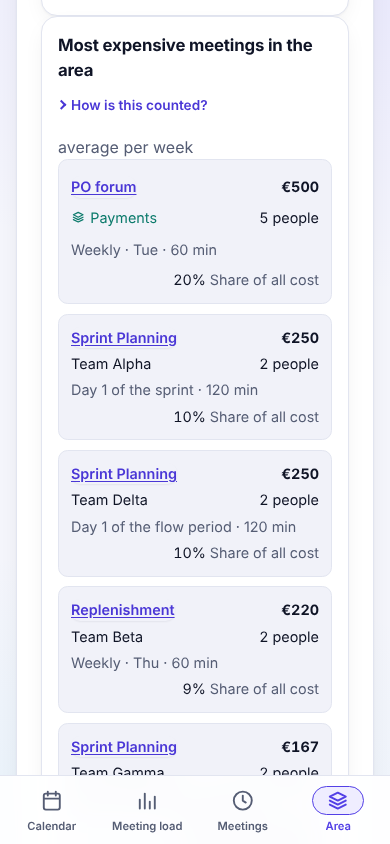
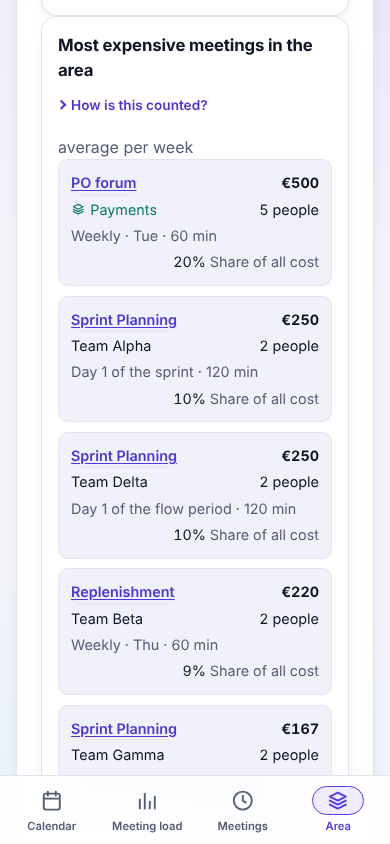
Share the phone card rules with the cost cards, keep the area card as tall as the others (#283)

diff --git a/src/ui/views/AreaOverview.svelte b/src/ui/views/AreaOverview.svelte
@@ -987,49 +987,6 @@
   .share-all .cap {
     display: none;
   }
-  /* Phones: the most expensive meetings become cards like the cost per team (#283):
-     meeting and cost on top, then where and invited, when, and the share on the right. */
-  @media (max-width: 640px) {
-    :global(#app) [data-costly] table.costs {
-      min-width: 0;
-    }
-    :global(#app) [data-costly] thead {
-      position: absolute;
-      width: 1px;
-      height: 1px;
-      overflow: hidden;
-      clip-path: inset(50%);
-    }
-    :global(#app) [data-costly] tbody tr {
-      display: grid;
-      grid-template-columns: minmax(0, 1fr) fit-content(50%);
-      column-gap: 0.75rem;
-      margin-bottom: 0.6rem;
-      padding: 0.6rem 0.75rem;
-      border: 1px solid var(--border);
-      border-radius: var(--radius);
-      background: var(--surface-2);
-    }
-    :global(#app) [data-costly] tbody :is(th, td) {
-      padding: 0.15rem 0;
-      border: 0;
-      white-space: normal;
-    }
-    :global(#app) [data-costly] tbody :is(.when, .share-all) {
-      grid-column: 1 / -1;
-    }
-    :global(#app) [data-costly] tbody .cost {
-      grid-row: 1;
-      grid-column: 2;
-    }
-    :global(#app) [data-costly] tbody .invited {
-      grid-row: 2;
-      grid-column: 2;
-    }
-    .share-all .cap {
-      display: inline;
-    }
-  }
   .muted {
     color: var(--text-muted);
     font-weight: 400;
@@ -1479,10 +1436,12 @@
       padding: 1rem;
     }
     /* The cost table becomes cards: team and cost on top, hours and share below (#281). */
-    :global(#app) [data-area-costs] table.costs {
+    :global(#app) [data-area-costs] table.costs,
+    :global(#app) [data-costly] table.costs {
       min-width: 0;
     }
     :global(#app) [data-area-costs] thead,
+    :global(#app) [data-costly] thead,
     :global(#app) .meetings thead {
       position: absolute;
       width: 1px;
@@ -1491,6 +1450,7 @@
       clip-path: inset(50%);
     }
     :global(#app) [data-area-costs] tr,
+    :global(#app) [data-costly] tbody tr,
     :global(#app) .meetings tr {
       display: grid;
       grid-template-columns: 1fr auto;
@@ -1501,6 +1461,7 @@
       background: var(--surface-2);
     }
     :global(#app) [data-area-costs] table.costs :is(th, td),
+    :global(#app) [data-costly] table.costs :is(th, td),
     :global(#app) .meetings td {
       padding: 0.15rem 0;
       border: 0;
@@ -1531,6 +1492,33 @@
     :global(#app) .meetings td.who {
       grid-column: 1 / -1;
       grid-row: 2;
+    }
+    /* The most expensive meetings: meeting and cost on top, then where and invited,
+       when, and the share (#283). */
+    :global(#app) [data-costly] tbody tr {
+      grid-template-columns: minmax(0, 1fr) fit-content(50%);
+      column-gap: 0.75rem;
+    }
+    :global(#app) [data-costly] table.costs td {
+      white-space: normal;
+    }
+    :global(#app) [data-costly] :is(.when, .share-all) {
+      grid-column: 1 / -1;
+    }
+    :global(#app) [data-costly] .cost {
+      grid-row: 1;
+      grid-column: 2;
+    }
+    :global(#app) [data-costly] .invited {
+      grid-row: 2;
+      grid-column: 2;
+    }
+    /* The area's icon must not make its card taller than the others. */
+    [data-costly] .where .area-name {
+      vertical-align: top;
+    }
+    .share-all .cap {
+      display: inline;
     }
   }
 </style>
